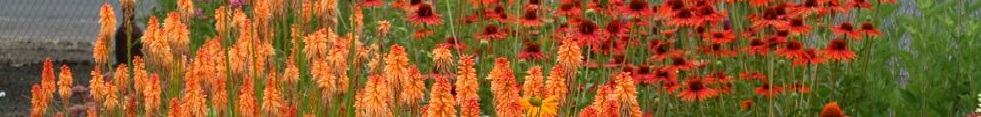
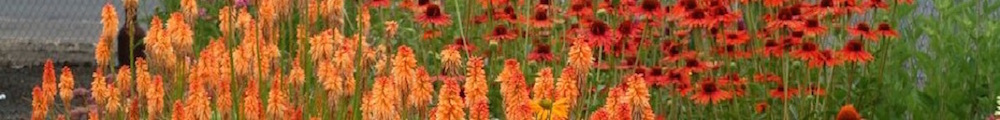
Adjusted category header

Changed region(s): [[0.5199, 0.9231, 0.5505, 0.9744]]

diff --git a/app/views/category.html b/app/views/category.html
@@ -10,7 +10,7 @@
                         <div class="row">
                             <div class="banner">
                               <div class="product-image2" align="center">
-                                <img src="{{}}">
+                                <img src="images/banner-2.jpg">
 
 
                                 </div>
